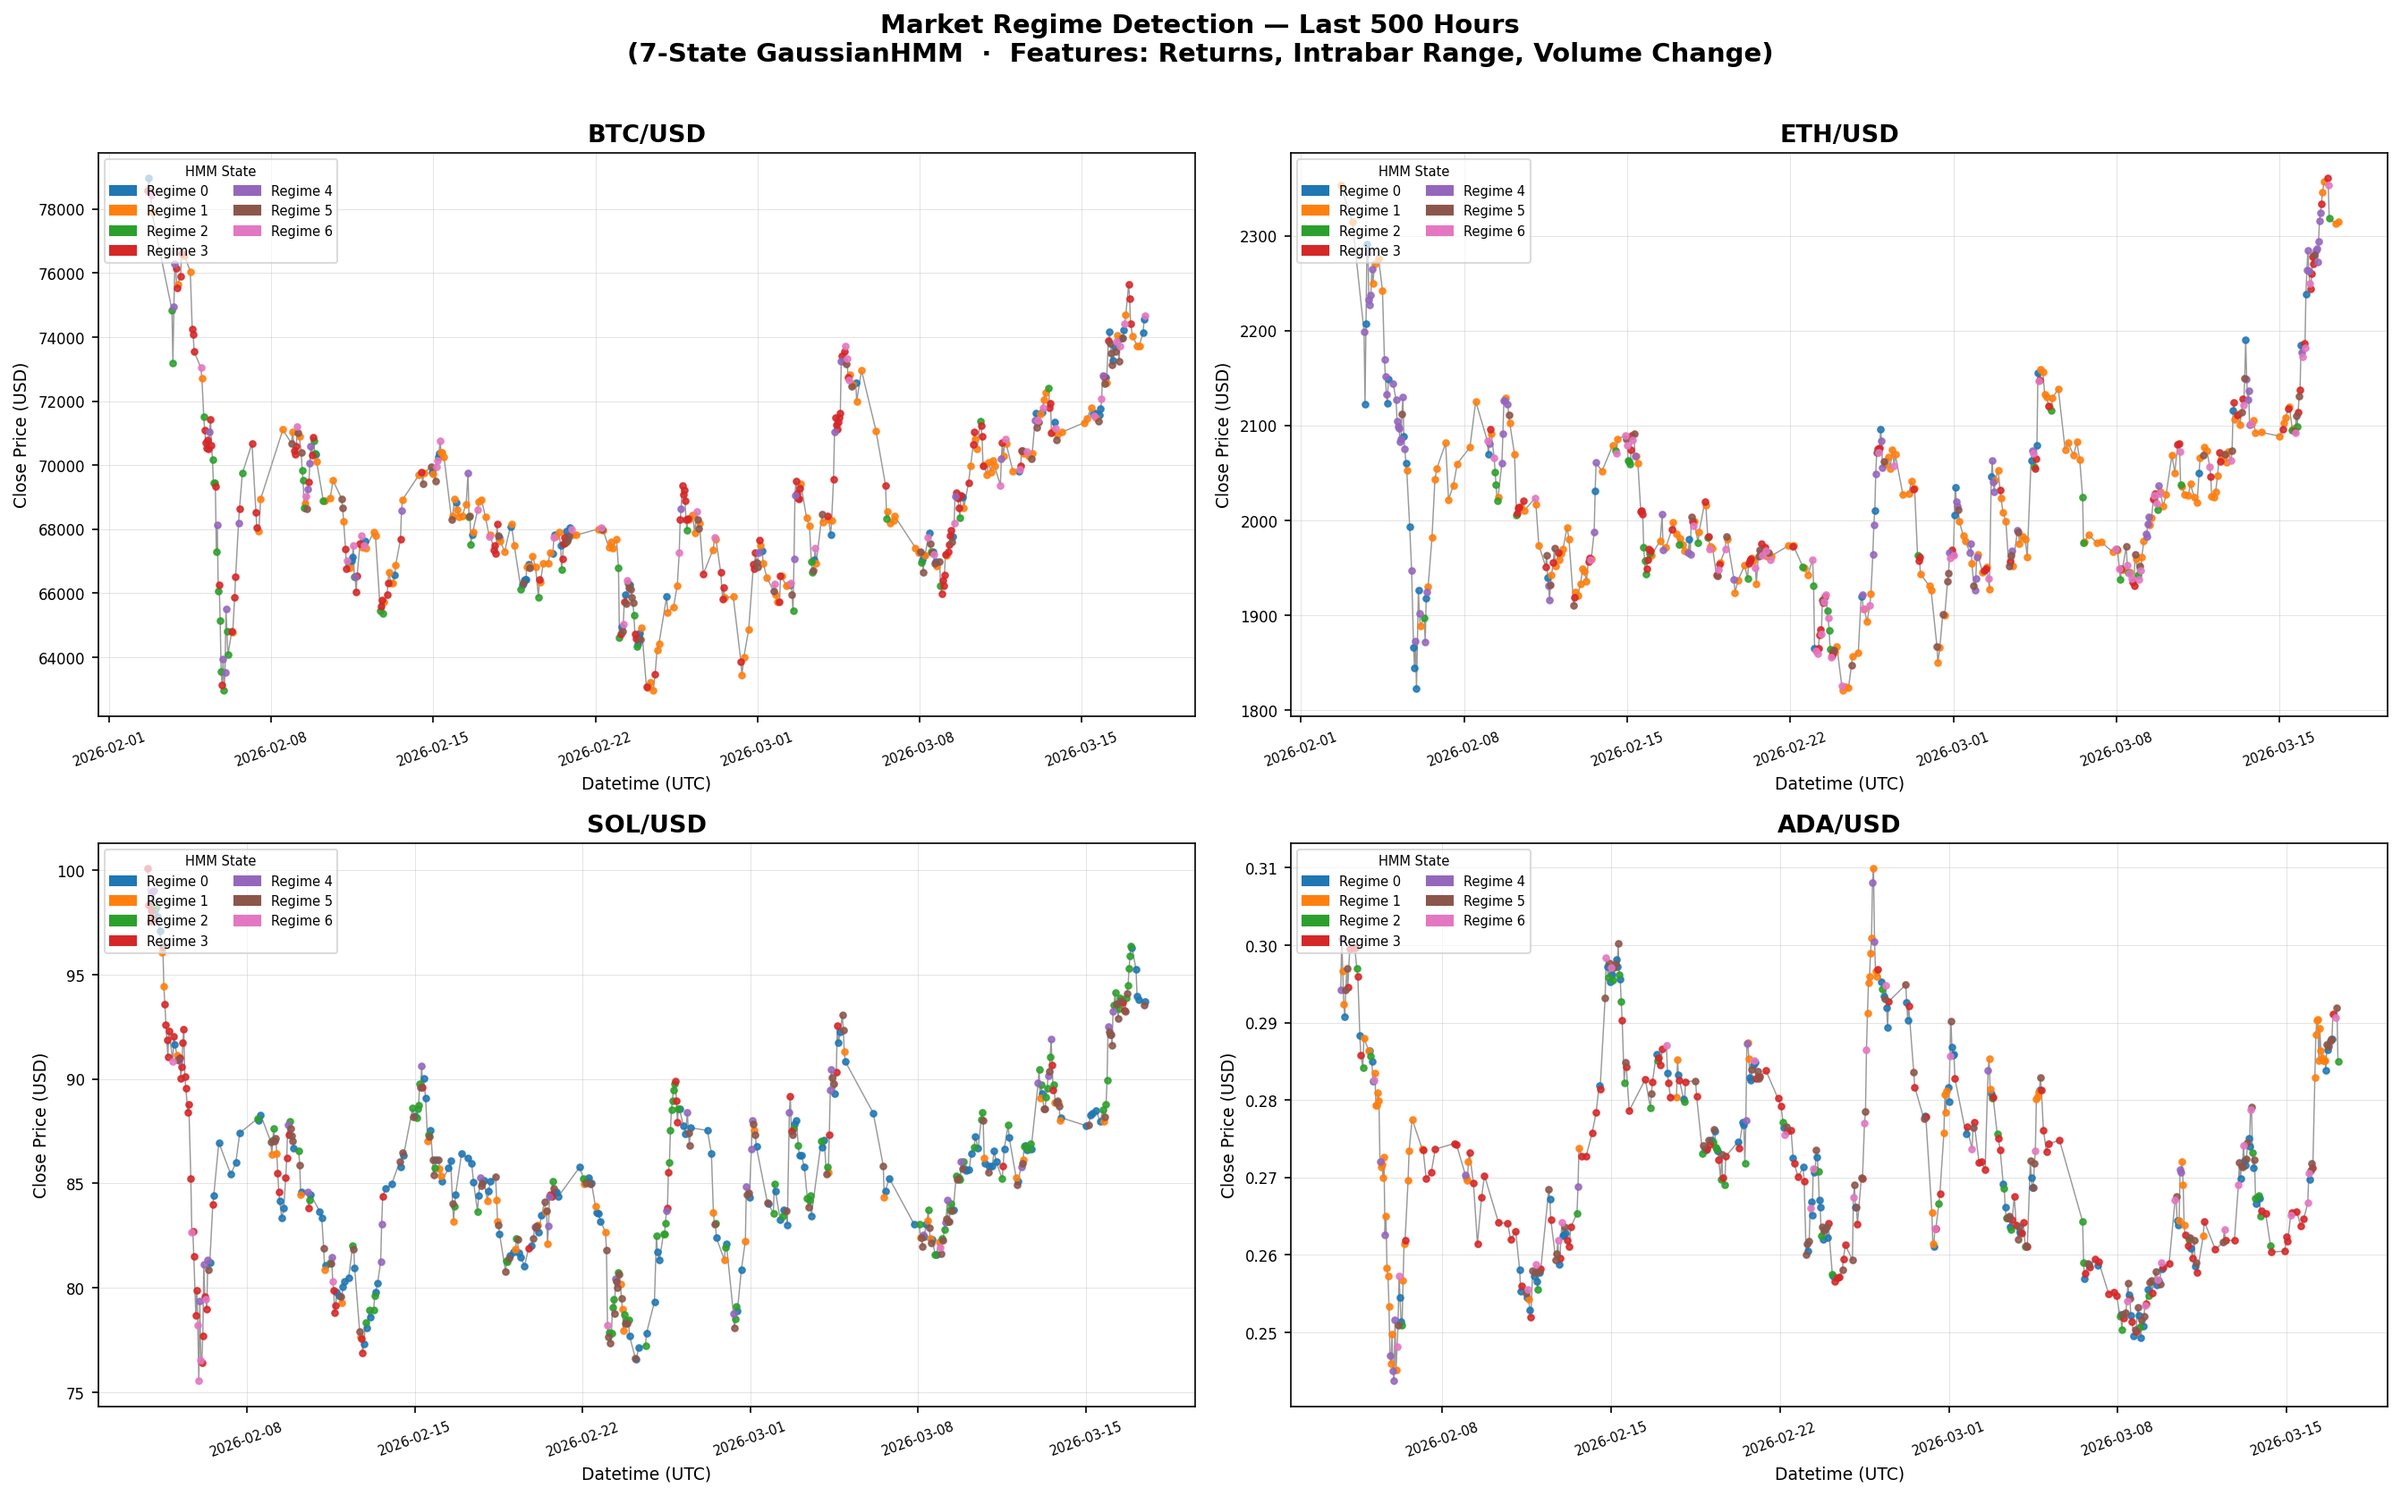
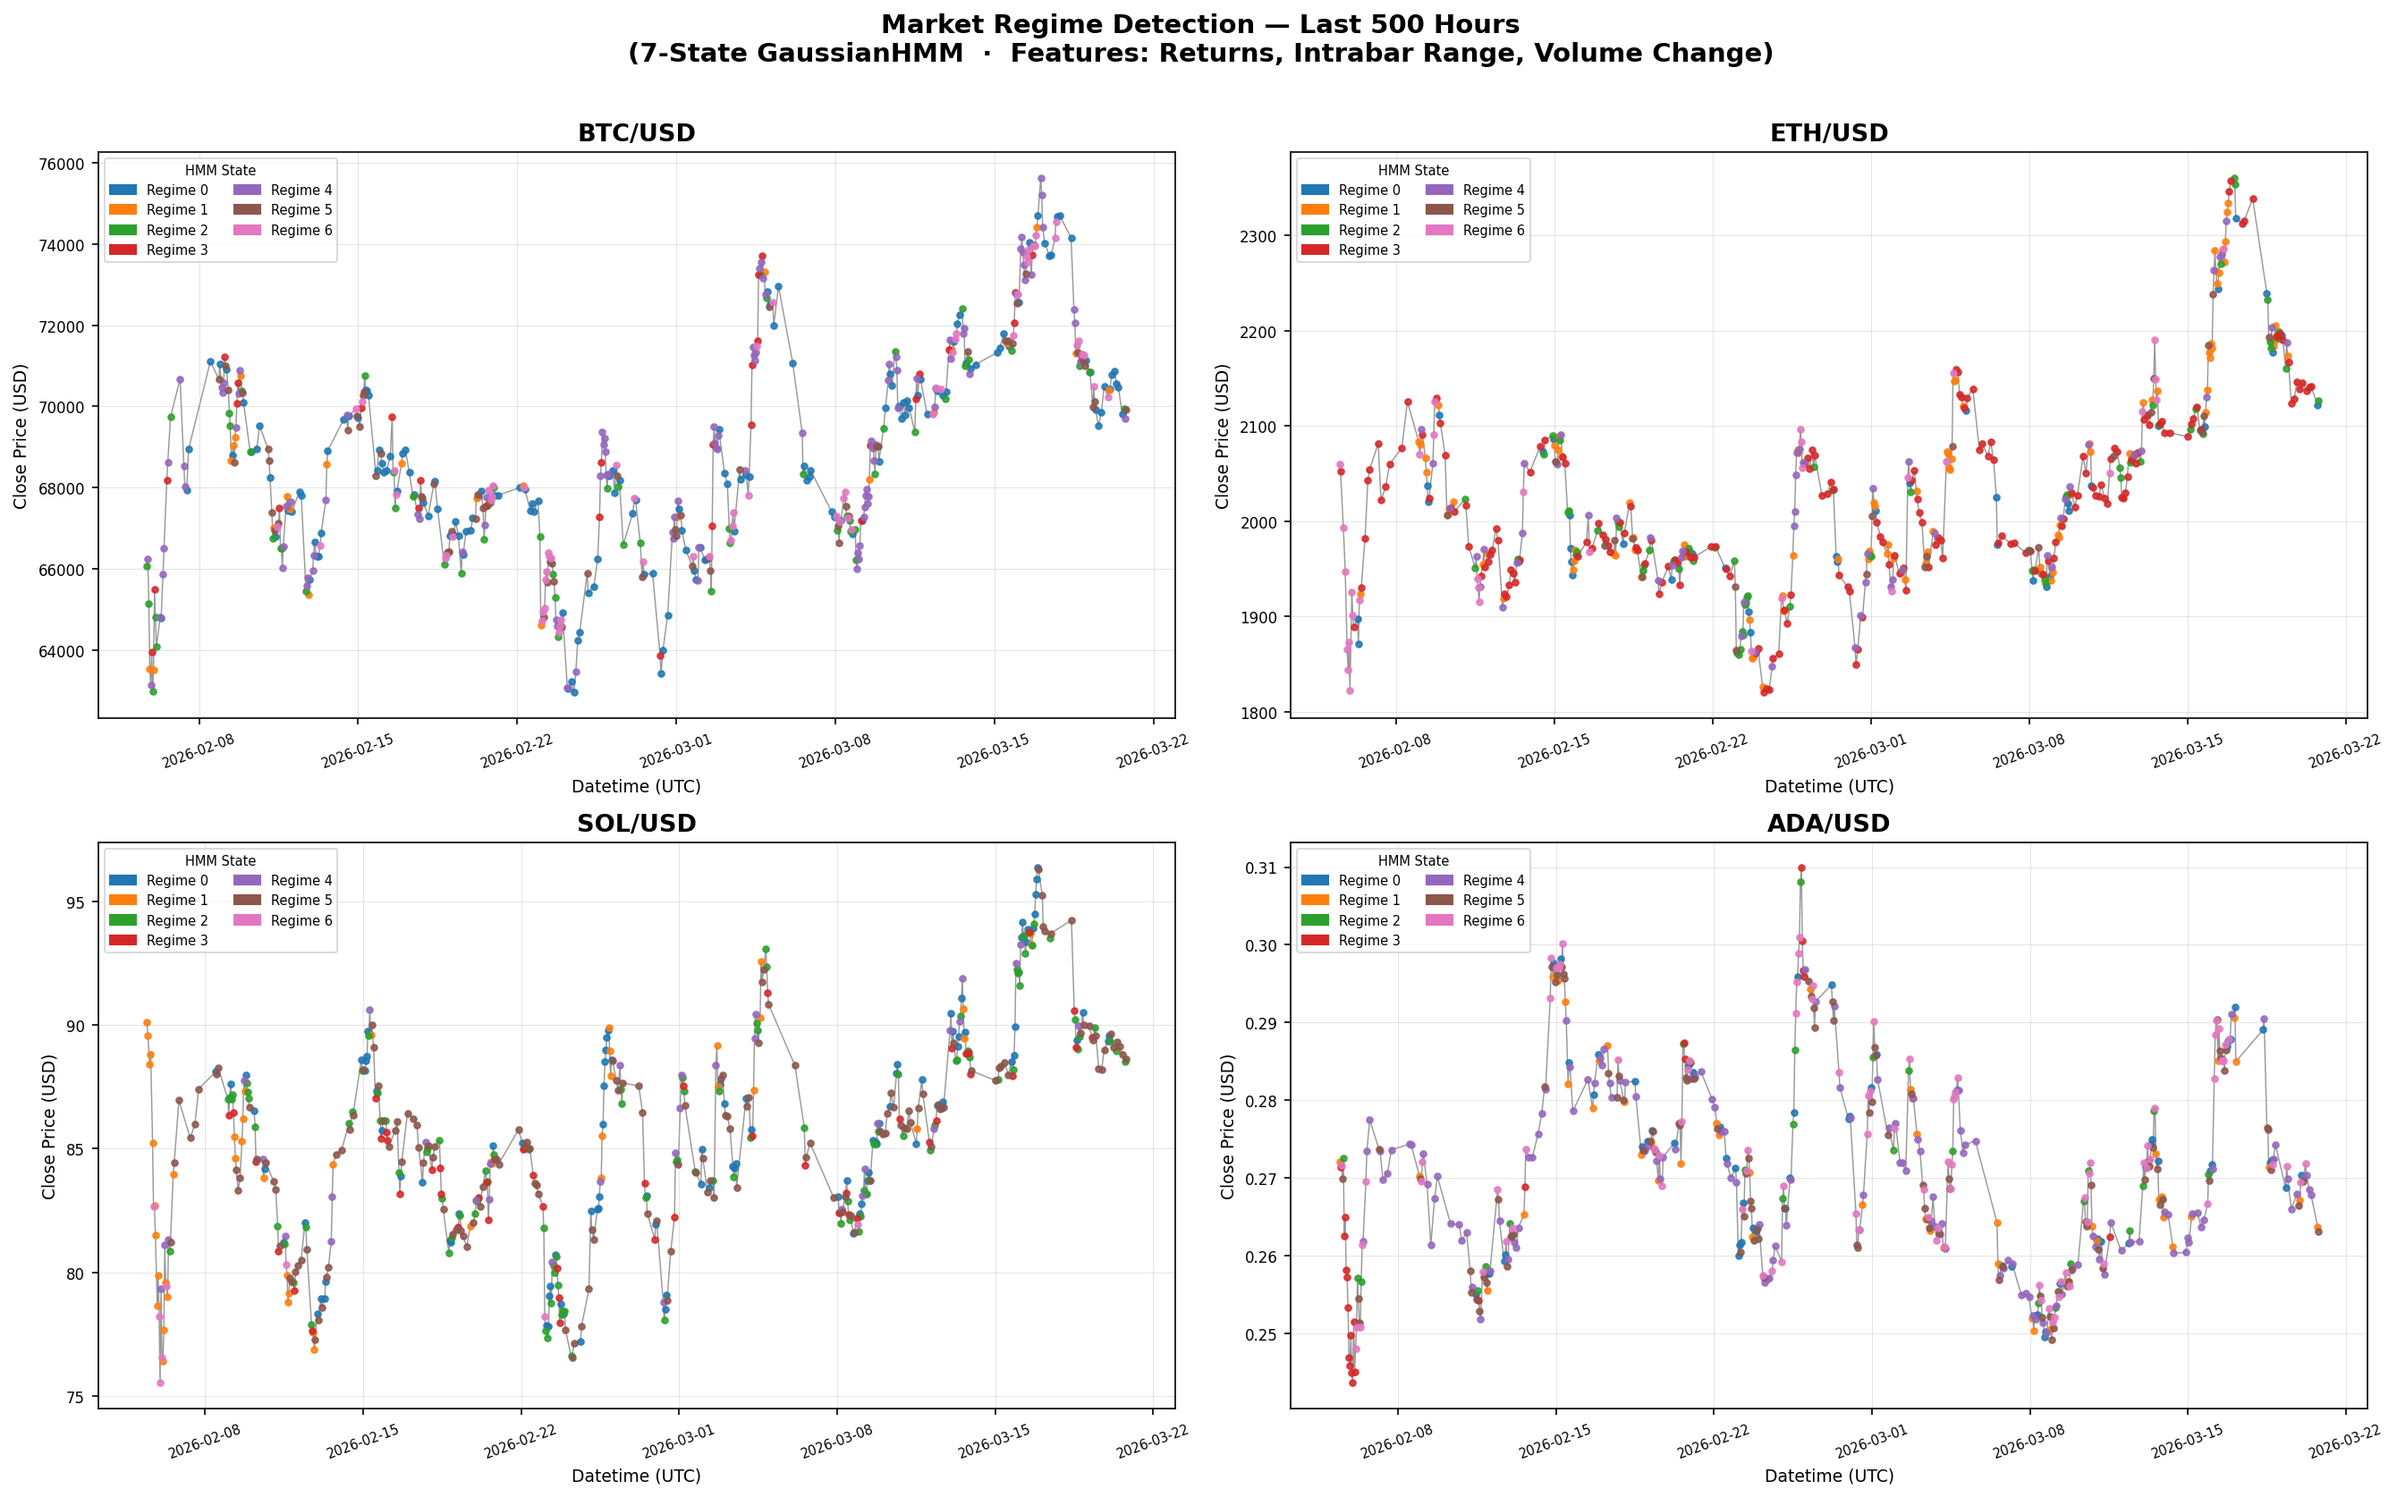
interval changes

diff --git a/hmm_regime_detection.py b/hmm_regime_detection.py
@@ -80,8 +80,8 @@ def get_cmap(name, n=None):
 TICKERS      = ["BTC-USD", "ETH-USD", "SOL-USD", "ADA-USD"]
 TICKER_NAMES = ["BTC",     "ETH",     "SOL",     "ADA"]
 
-N_STATES    = 7          # number of HMM hidden states (market regimes)
-PLOT_HOURS  = 500        # how many trailing hours to show in the visual
+N_STATES    = 8          # number of HMM hidden states (market regimes)
+PLOT_HOURS  = 750        # how many trailing hours to show in the visual
 RANDOM_SEED = 42
 
 print(f"Python  {sys.version.split()[0]}  |  "
